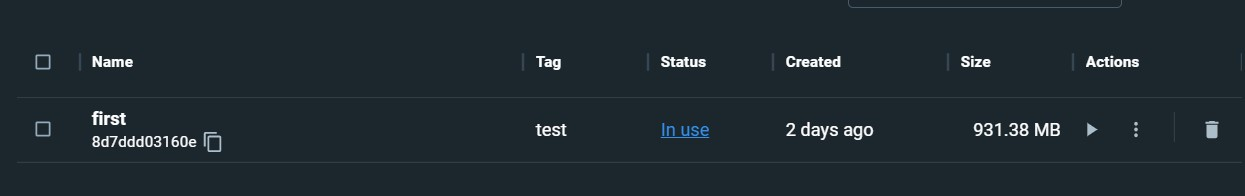
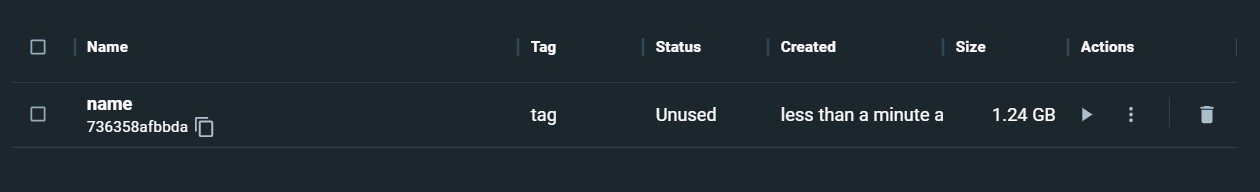
added the image for docker container updated the image for docker image
updated the requirements.txt for the sqlalchemy

corrected the naming scheme for much easier reading experience
added the pip freeze

diff --git a/README.md b/README.md
@@ -7,18 +7,18 @@
 To build the docker image
 
 ```shell
-docker build -t first:tag .
+docker build -t name:tag .
 ```
 
 `-t or --tag` the syntax for the following to be the name and tag
 
 `first:tag`
 
-The <u>_**first**_</u> signifies the name of the docker image
+The <u>_**name**_</u> signifies the name of the docker image
 
 The <u>**_tag_**</u> is the tag image it can be used to give version names
 
-![image](https://i.imgur.com/GcW9012.jpeg)
+![image](https://i.imgur.com/i0RNJ5j.png)
 
 ```dockerfile
 FROM python:3.11.0rc1
@@ -35,11 +35,13 @@ ENTRYPOINT ["bash"]
 To create the container
 
 ```shell
-docker run --name image_test_container -it first:tag
+docker run --name image_test_container -it name:tag
 ```
 
 With this, after running this with the dockerfile, it will run the container with the name of `image_test_container`
 from the image `name:tag`
+
+![](https://i.imgur.com/XVc68zC.png)
 
 ---
 
@@ -85,3 +87,8 @@ ENTRYPOINT ["python", "src/main.py"]
 ## installing pip
 
 source ../docker_venv/bin/activate
+
+```shell
+source ../docker_venv/bin/activate
+pip freeze > requirements.txt
+```
